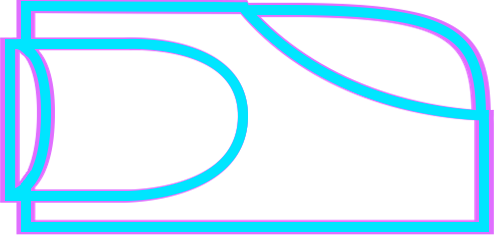
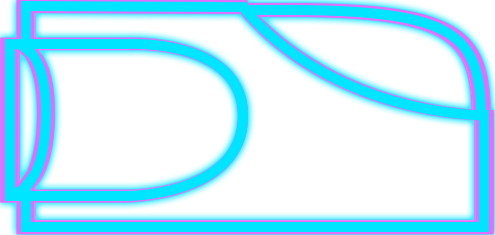
added obstacle textures

Changed region(s): [[0.0, 0.0, 1.0, 1.0]]

diff --git a/src/entities/obstacle.cpp b/src/entities/obstacle.cpp
@@ -1,10 +1,10 @@
 #include "obstacle.h"
-
+#include "engine/color.h"
 namespace tesseract::entities
 {
-	static const float obstWidthRatio = 16.0f;    
-	static const float obstHeightRatio = 1.5f;    
-	static const float obstSpeed = 300.0f;         
+	static const float obstWidthRatio = 16.0f;
+	static const float obstHeightRatio = 1.5f;
+	static const float obstSpeed = 300.0f;
 	static const float biggerGapRatio = 3.0f;
 	static const float smallestGapRatio = 5.0f;
 
@@ -15,6 +15,9 @@ namespace tesseract::entities
 		obstacle.size = { static_cast<float>(GetScreenWidth()) / obstWidthRatio, static_cast<float>(GetScreenHeight()) / obstHeightRatio };
 		obstacle.speed = obstSpeed;
 		ResetPos(obstacle);
+
+		obstacle.obstacleTexture = LoadTexture("res/obstacle.png");
+		obstacle.obstacleTopTexture = LoadTexture("res/obstacleTop.png");
 	}
 
 	void UpdateObstacle(Obstacle& obstacle)
@@ -25,18 +28,20 @@ namespace tesseract::entities
 		if (obstacle.pos.x + obstacle.size.x <= 0)
 			ResetPos(obstacle);
 	}
-	
+
 	void DrawObstacle(Obstacle& obstacle)
 	{
-		DrawRectangleV(obstacle.pos, obstacle.size, RED);
-		DrawRectangleV(obstacle.topPos, obstacle.size, RED);
+
+
+		DrawTexturePro(obstacle.obstacleTexture, { 0, 0, static_cast<float>(obstacle.obstacleTexture.width), static_cast<float>(obstacle.obstacleTexture.height) }, { obstacle.pos.x, obstacle.pos.y, obstacle.size.x, obstacle.size.y }, { 0, 0 }, 0.0f, WHITE);
+		DrawTexturePro(obstacle.obstacleTopTexture, { 0, 0, static_cast<float>(obstacle.obstacleTopTexture.width), static_cast<float>(obstacle.obstacleTopTexture.height) }, { obstacle.topPos.x, obstacle.topPos.y, obstacle.size.x, obstacle.size.y }, { 0, 0 }, 0.0f, WHITE);
 	}
 
 	void ResetPos(Obstacle& obstacle)
 	{
 		int minY = static_cast<int>(GetScreenHeight() - obstacle.size.y);
 		int maxY = static_cast<int>(GetScreenHeight());
-		
+
 		obstacle.pos.y = static_cast<float>(GetRandomValue(minY, maxY));
 		obstacle.pos.x = static_cast<float>(GetScreenWidth());
 
@@ -47,4 +52,12 @@ namespace tesseract::entities
 		obstacle.topPos.x = obstacle.pos.x;
 		obstacle.gotPoints = true;
 	}
+
+	void UnloadObstacle(Obstacle& obstacle)
+	{
+		UnloadTexture(obstacle.obstacleTexture);
+		UnloadTexture(obstacle.obstacleTopTexture);
+	}
+
+
 }

diff --git a/src/entities/obstacle.h b/src/entities/obstacle.h
@@ -11,9 +11,14 @@ namespace tesseract::entities
 		float speed;
 		float gap;
 		bool gotPoints;
+
+		Texture2D obstacleTexture;
+		Texture2D obstacleTopTexture;
 	};
 
 	void InitObstacle(Obstacle& obstacle);
 	void UpdateObstacle(Obstacle& obstacle);
 	void DrawObstacle(Obstacle& obstacle);
+	void UnloadObstacle(Obstacle& obstacle);
+
 }

diff --git a/src/engine/color.h b/src/engine/color.h
@@ -9,3 +9,4 @@
 #define farBuildings CLITERAL(Color){23,17,47,255}
 #define midBuildings CLITERAL(Color){41,23,70,255}
 #define closeBuildings CLITERAL(Color){72,32,94,255}
+#define obstacleBuildings CLITERAL(Color){139,92,92,255}

diff --git a/src/game.cpp b/src/game.cpp
@@ -4,6 +4,7 @@
 #include "engine/sound.h"
 #include "engine/fonts.h"
 #include "engine/color.h"
+#include "entities/obstacle.h"
 
 
 namespace tesseract

diff --git a/src/scenes/gameplay.cpp b/src/scenes/gameplay.cpp
@@ -137,6 +137,7 @@ namespace tesseract::scenes
 
 		if (IsKeyDown(KEY_ESCAPE))
 		{
+			entities::UnloadObstacle(Obs);
 			ChangeScene(Menu);
 		}
 	}
